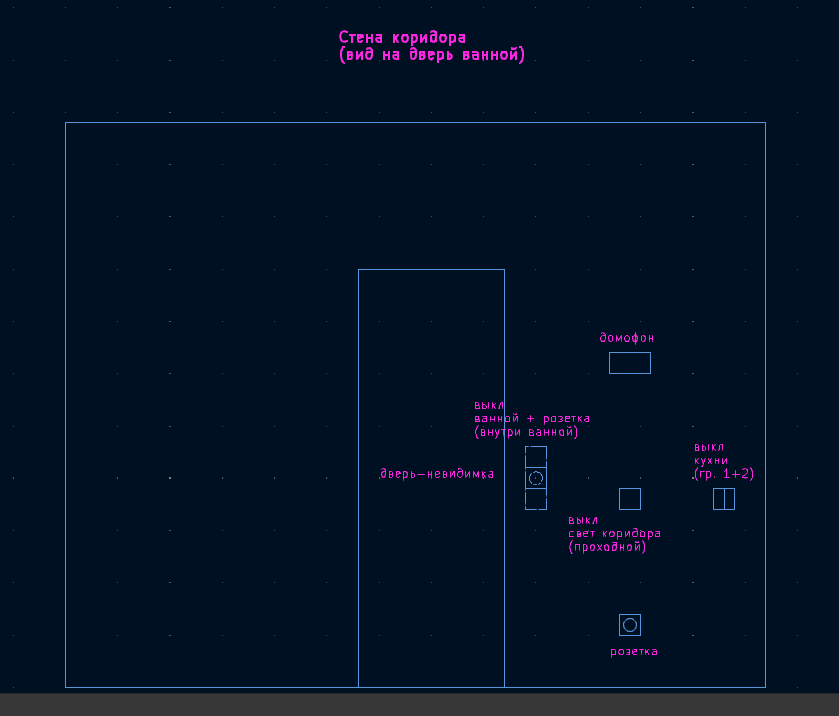
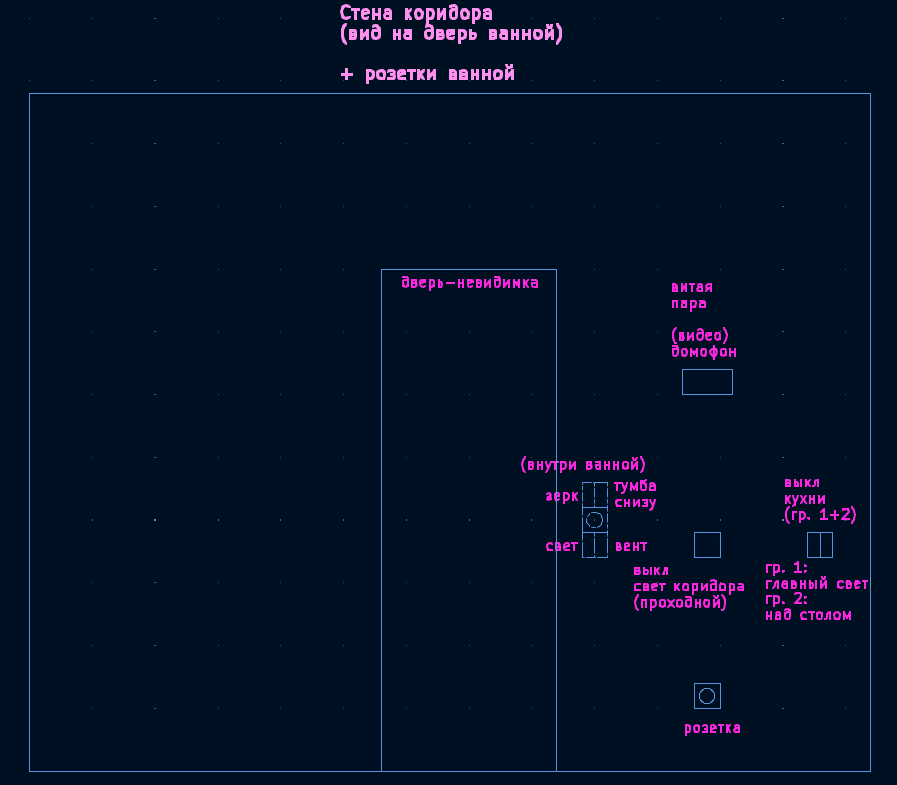
update diagram for bath switches

diff --git a/o/electricity/index.md b/o/electricity/index.md
@@ -26,7 +26,7 @@
   * [Витая пара](cable_lists/utp.md)
 * Расположение розеток и выключателей
   * [Кухня - гарнитур](../design/2d_plans/e__kitchen__set.png)
-  * [Коридор - южная стена](2d_plans/e__corridor__s__outlets.png)
+  * [Коридор - южная стена + свет ванной](2d_plans/e__corridor__s__outlets.png)
   * [Комната - восточная стена](2d_plans/e__room__e__outlets.png)
   * [Перегородка - восточная стена](2d_plans/e__room_stonework__e.png)
     * Щит
